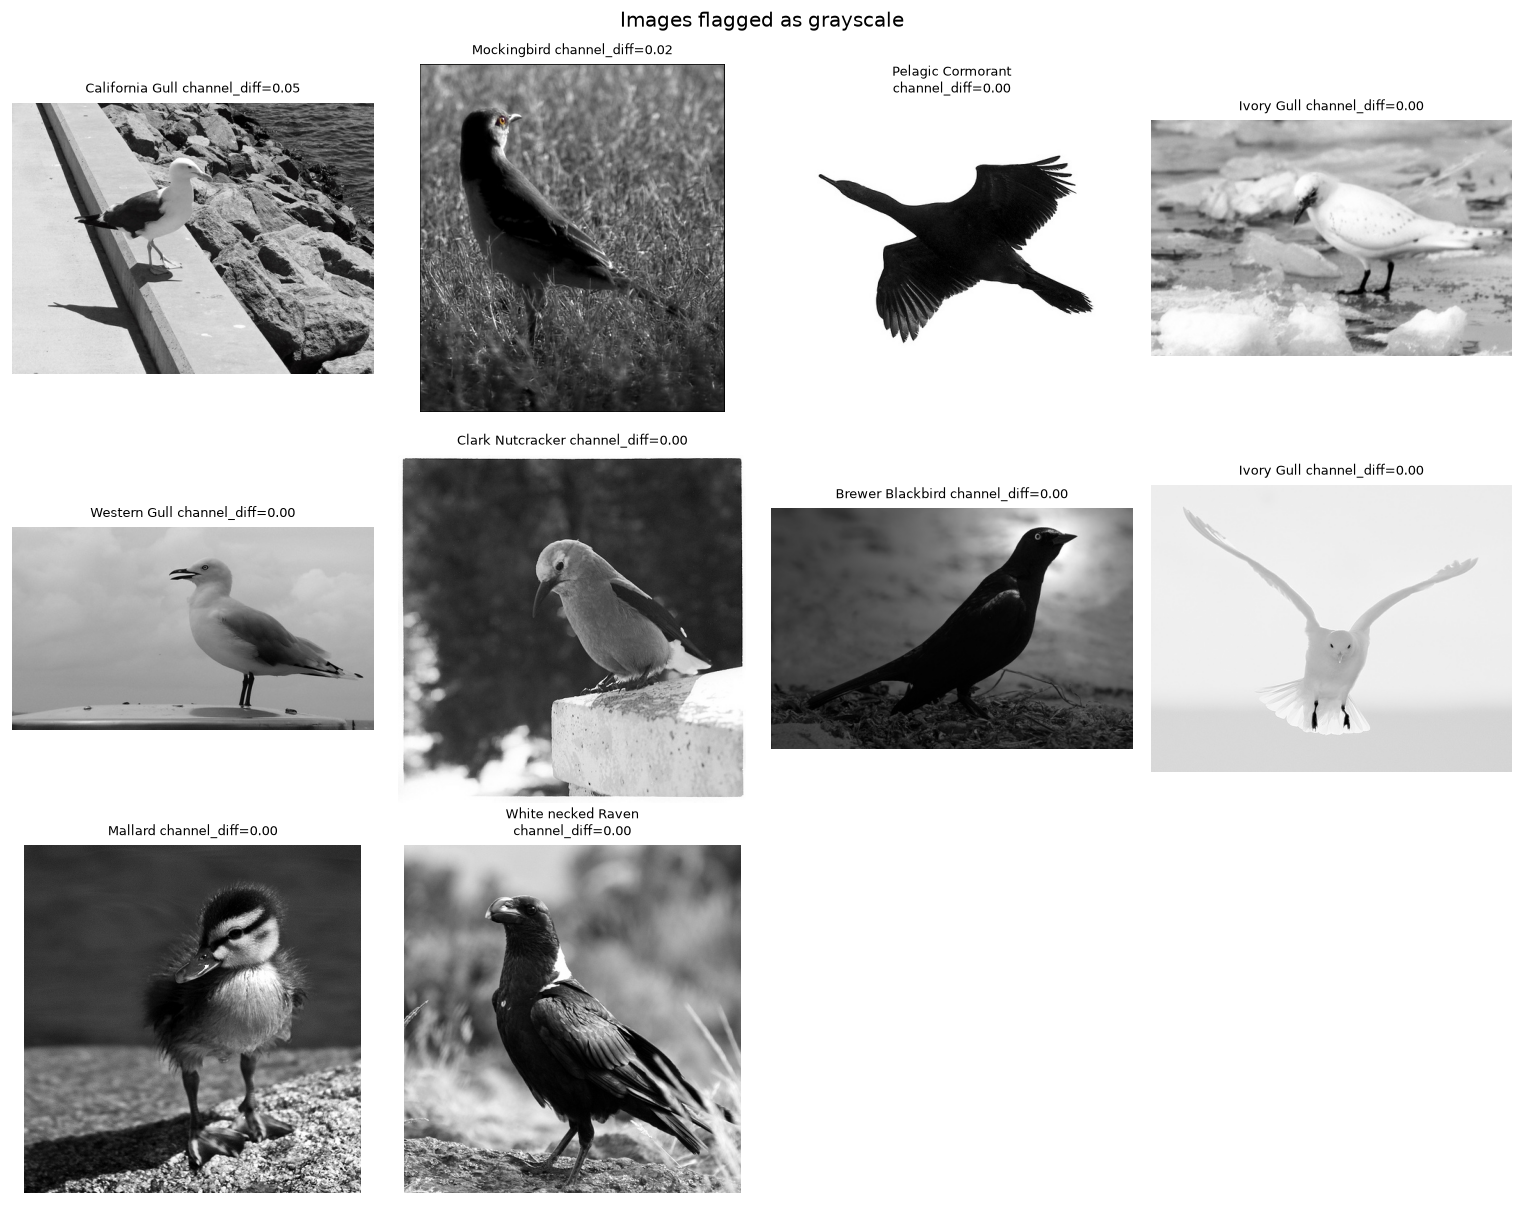
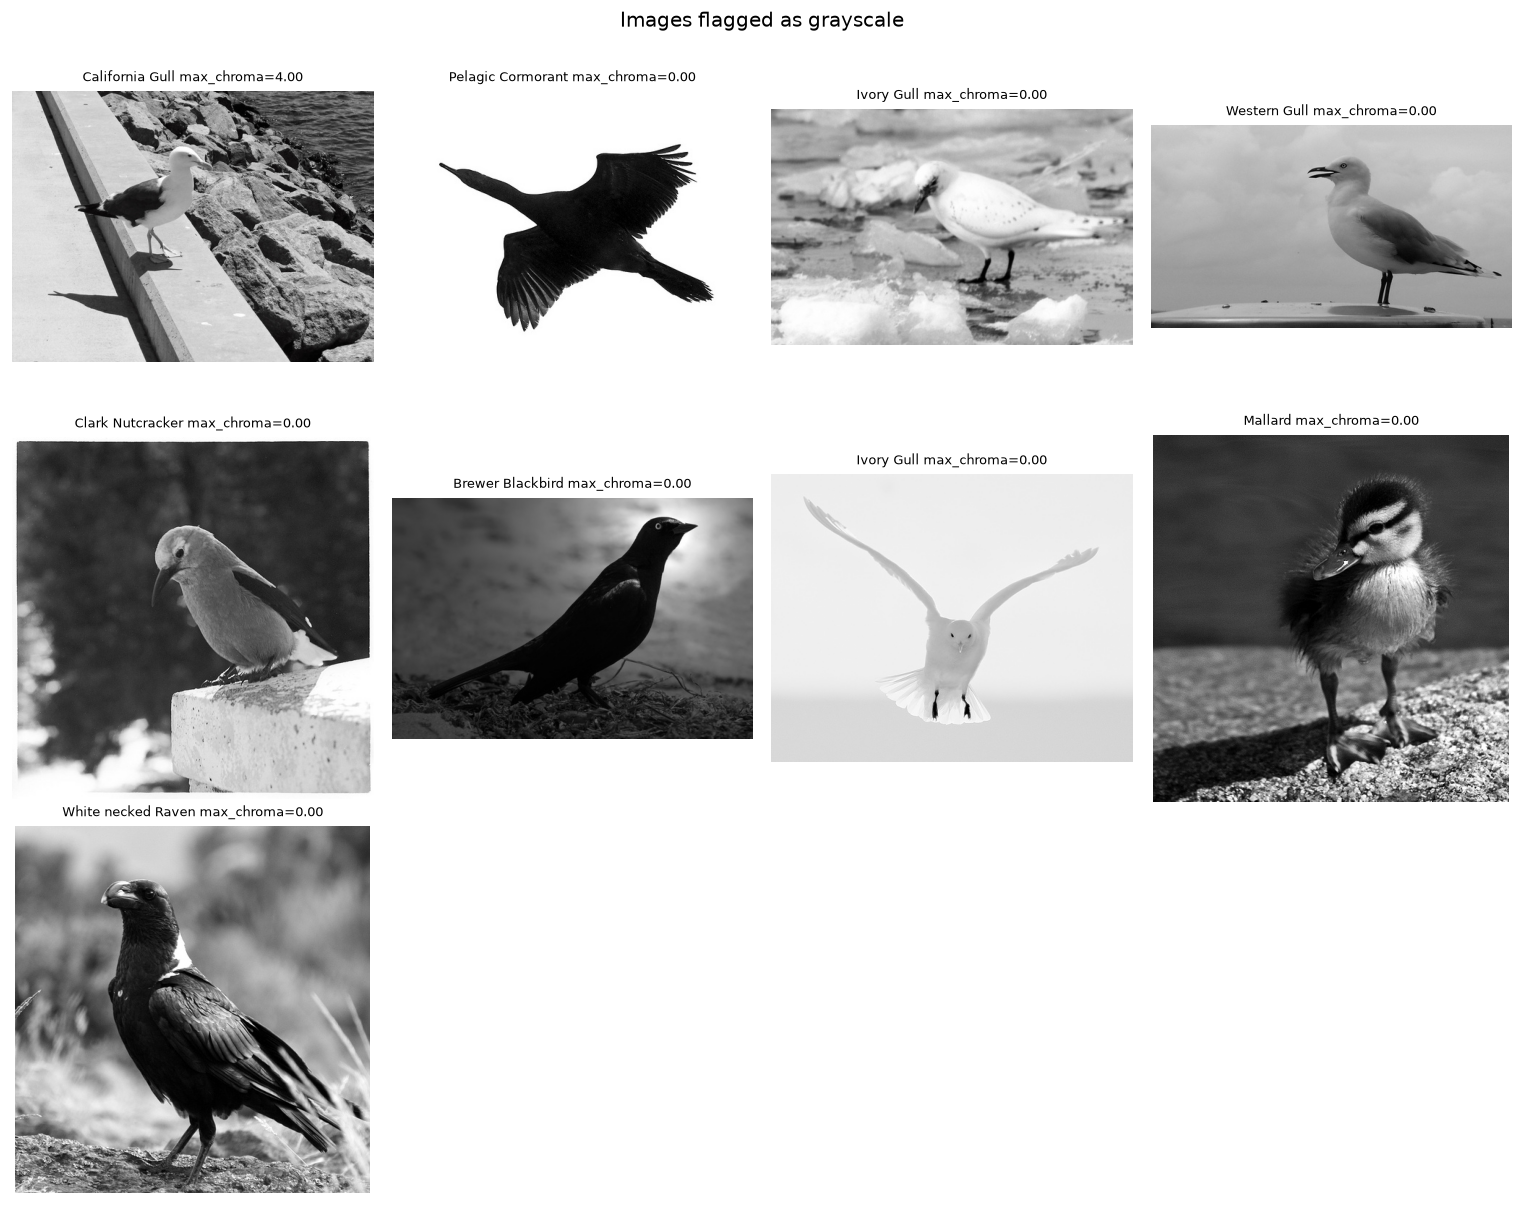
fix(eda): flag grayscale by the most colorful pixel, not the image mean
The mean channel difference cannot separate a black-and-white photo with
one hand-colored eye (Mockingbird train #2720, 0.021) from a fully gray
one (California Gull train #1743, 0.047). The Mockingbird has real color,
so it belongs in the colorization data.

Replace channel_diff with max_chroma: the largest per-pixel max-min
channel spread on the 256x256 resize. Gray files score 0-4 (JPEG noise
on R=G=B); the least colorful color photos (dark birds on overcast sky
or water) start at 11 and were checked by eye. GRAY_MAX_CHROMA = 10.

Result: 9 grayscale images (5 train, 4 test): the 8 mode-L files plus
California Gull #1743. Requires --recompute for an old image_stats cache.

diff --git a/src/data/eda.py b/src/data/eda.py
@@ -35,9 +35,10 @@ from PIL import Image  # noqa: E402
 TRAIN_REPO = "Multimodal-Fatima/CUB_train"
 TEST_REPO = "Multimodal-Fatima/CUB_test"
 STATS_SIZE = 256  # pixel statistics are computed on images resized to 256x256
-# mean |R-G|,|G-B| below this (0-255 scale) = effectively grayscale. 2.0 flagged color birds on
-# large gray sky/water; on CUB the gray RGB files score <= 0.05 and the next image 0.21
-GRAY_CHANNEL_DIFF = 0.1
+# Largest per-pixel max-min channel spread (0-255) below this = no color anywhere = grayscale.
+# A mean over the image fails both ways: color birds on big gray sky/water score low, and a
+# black-and-white photo with one colored eye scores lower than a fully gray one
+GRAY_MAX_CHROMA = 10
 IMAGENET_MEAN = [0.485, 0.456, 0.406]
 IMAGENET_STD = [0.229, 0.224, 0.225]
 
@@ -343,7 +344,7 @@ def pixel_stats(img: Image.Image) -> dict:
         "contrast": float(gray.std()),
         "blur_lap_var": float(lap.var()),
         "colorfulness": float(colorfulness),
-        "channel_diff": float((np.abs(R - G).mean() + np.abs(G - B).mean()) / 2),
+        "max_chroma": float((arr.max(axis=2) - arr.min(axis=2)).max() * 255.0),
         "dhash": dhash(img),
     }
 
@@ -388,7 +389,7 @@ def load_or_compute_image_stats(ctx: EDAContext) -> pd.DataFrame:
     df["aspect_ratio"] = df["width"] / df["height"]
     df["shorter_side"] = df[["width", "height"]].min(axis=1)
     df["is_grayscale"] = df["mode"].isin(["L", "LA", "1", "I", "I;16", "F"]) | (
-        df["channel_diff"] < GRAY_CHANNEL_DIFF
+        df["max_chroma"] < GRAY_MAX_CHROMA
     )
     return df
 
@@ -445,11 +446,11 @@ def step_images(ctx: EDAContext):
     grid(ok.nsmallest(8, "brightness"), "darkest", "Darkest images", "brightness")
     grid(ok.nsmallest(8, "shorter_side"), "smallest", "Smallest images", "shorter_side")
     # Borderline cases first: they are the likely false positives (true L-mode images score 0)
-    grid(ok[ok.is_grayscale].sort_values("channel_diff", ascending=False), "grayscale",
-         "Images flagged as grayscale", "channel_diff")
+    grid(ok[ok.is_grayscale].sort_values("max_chroma", ascending=False), "grayscale",
+         "Images flagged as grayscale", "max_chroma")
 
     gray = df[df.is_grayscale]
-    gray[["split", "idx", "file_name", "label_name", "mode", "channel_diff"]].to_csv(
+    gray[["split", "idx", "file_name", "label_name", "mode", "max_chroma"]].to_csv(
         ctx.table_dir / "grayscale_images.csv", index=False
     )
     not_rgb = df[df["mode"].notna() & (df["mode"] != "RGB")]
